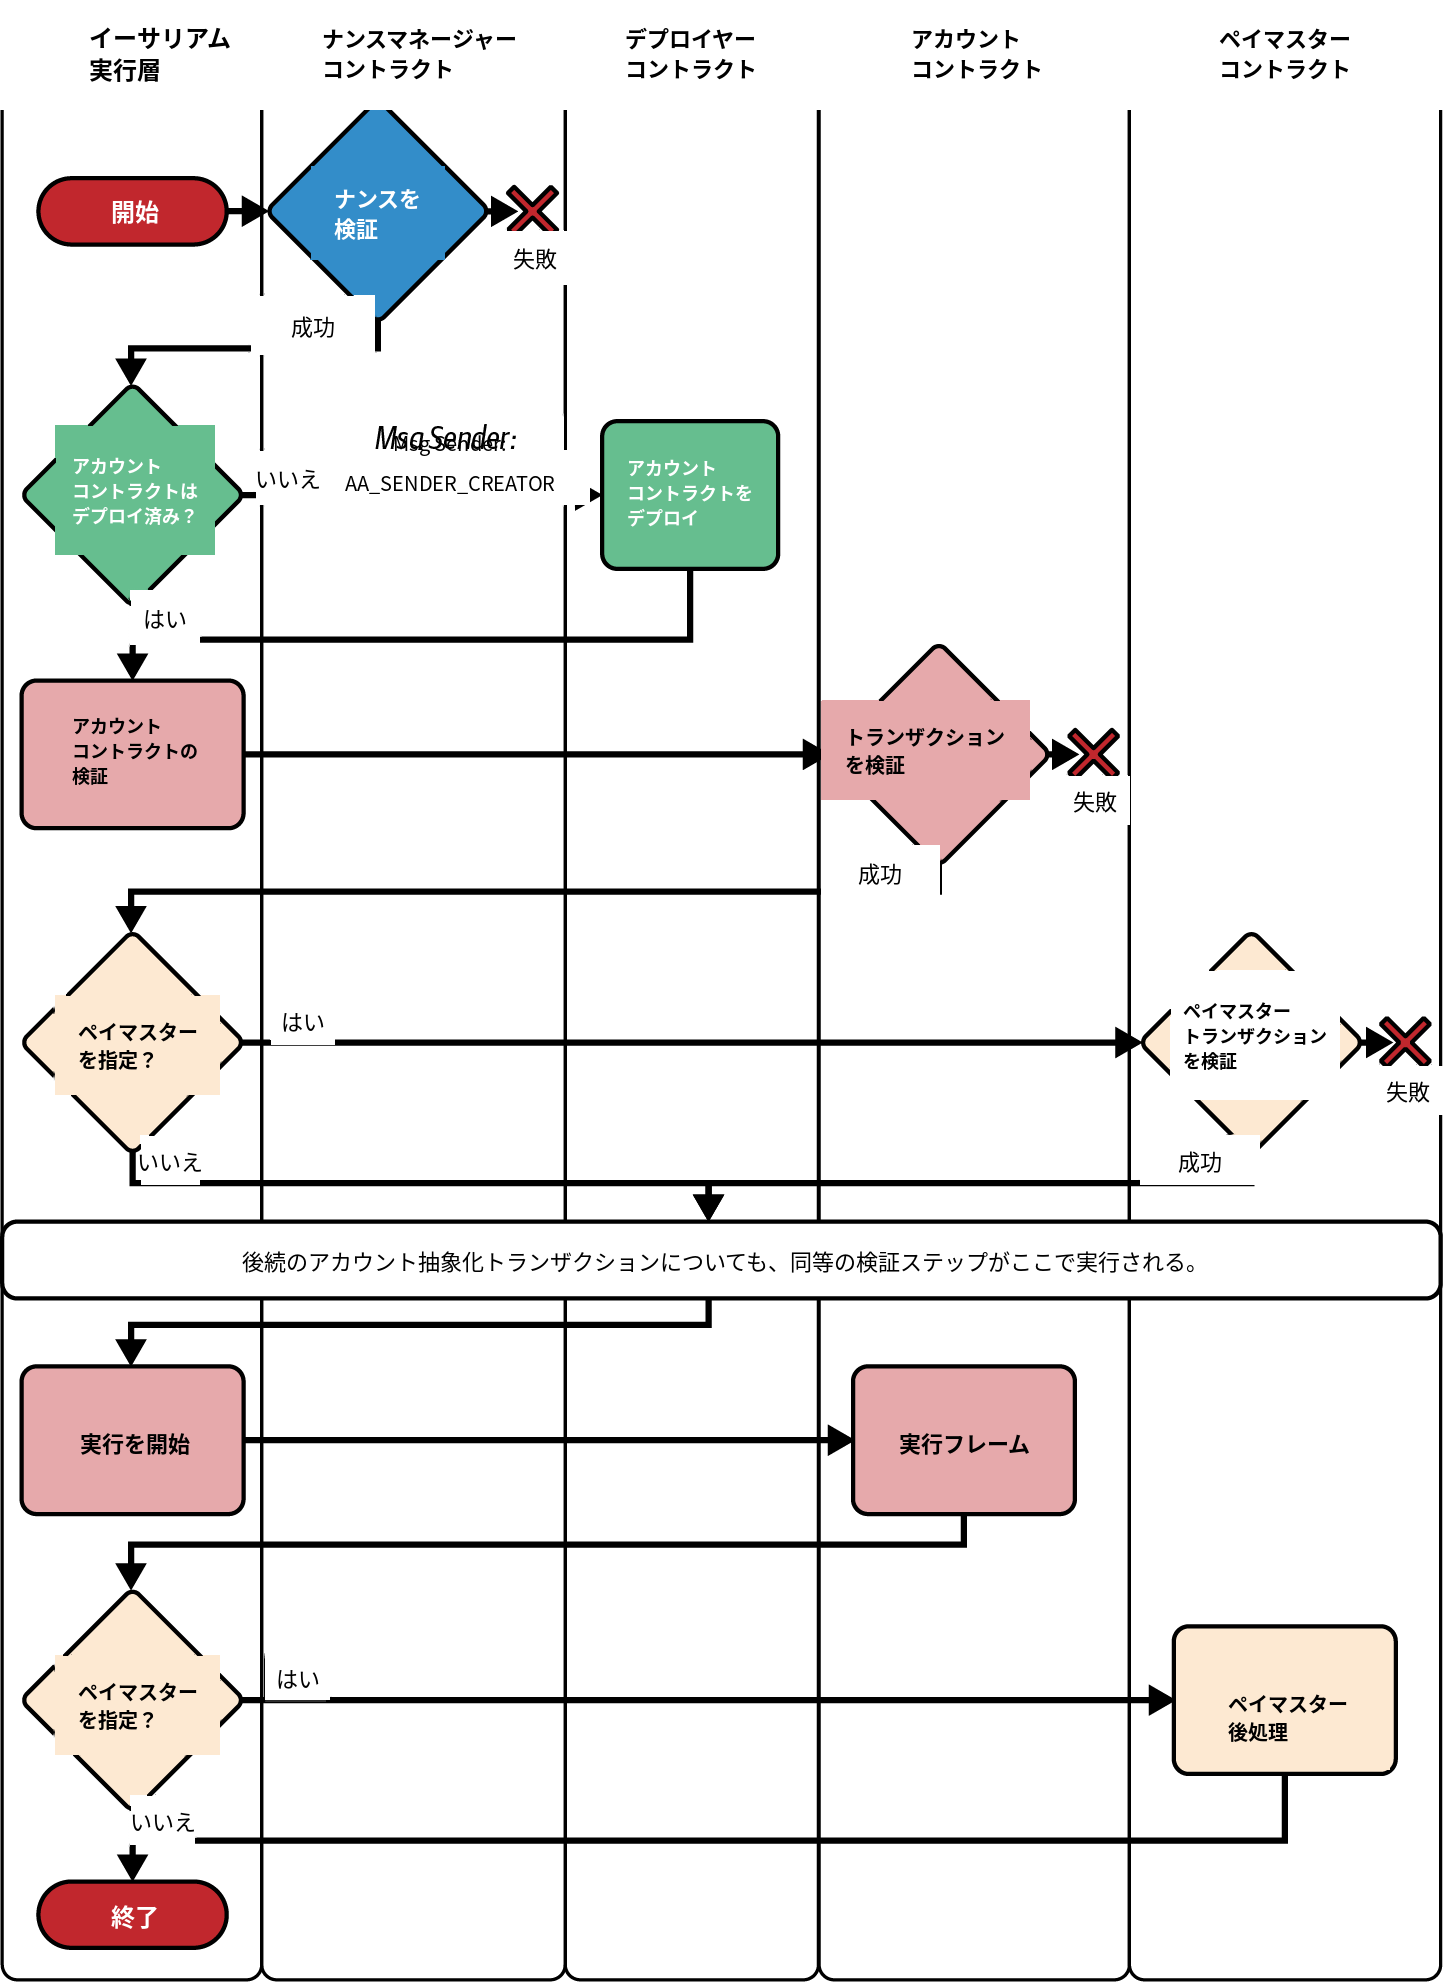
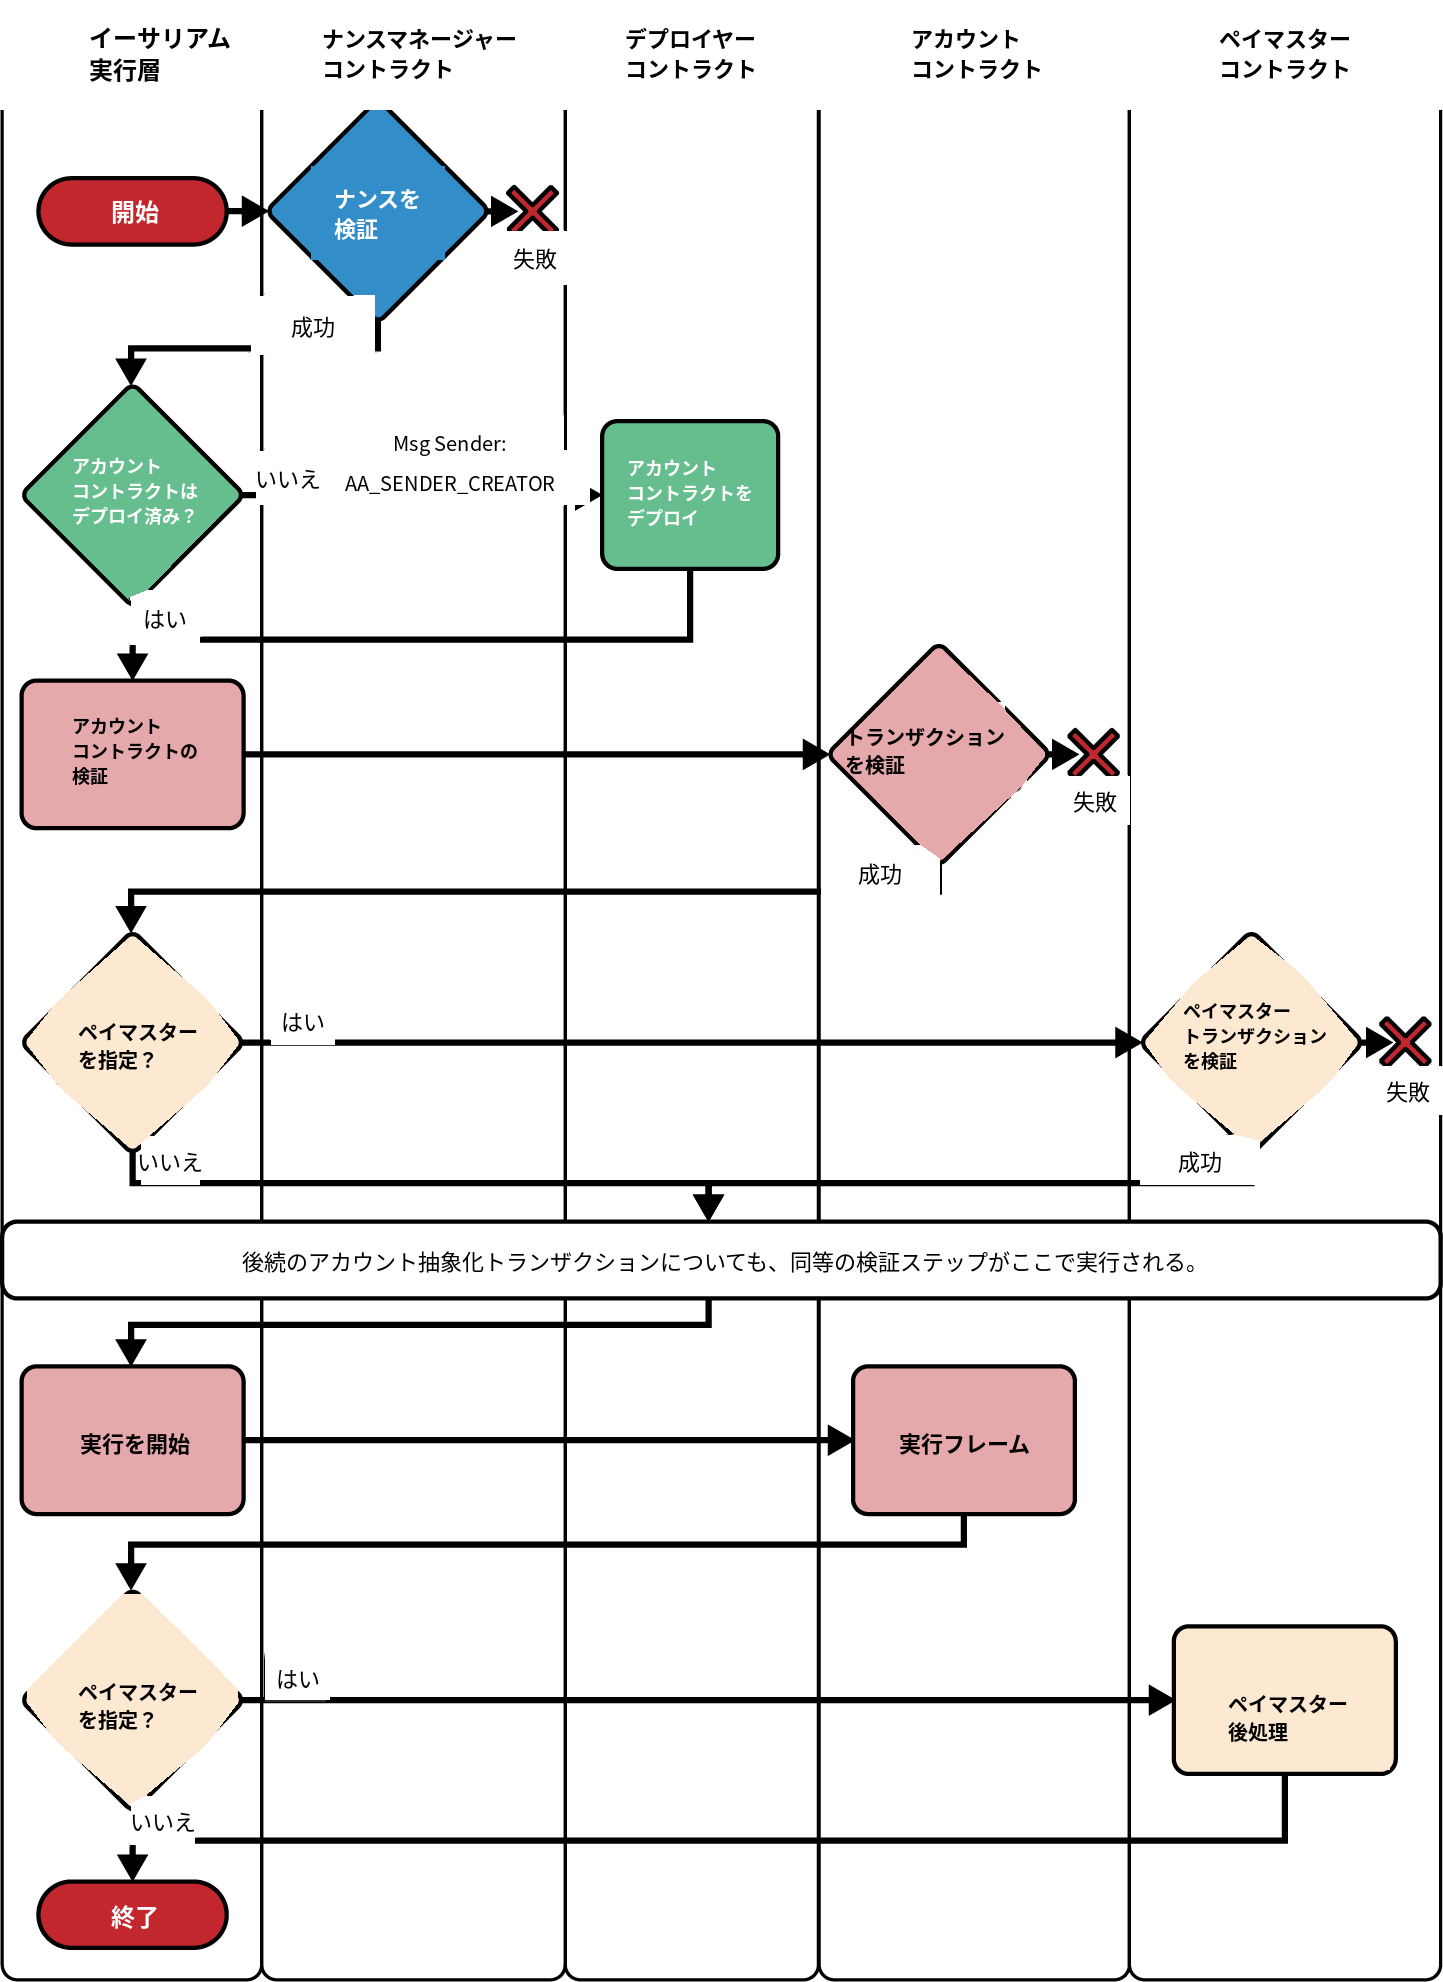
fix(ch5-images): repair broken diamond shapes in 0506
The hard __extra_mask_boxes__ approach (rectangular mask + flat median
fill) destroyed every colored diamond node: the rectangle paints fill
color (or sampled white) beyond the diamond's slanted edges, producing
star/banded/split shapes, and suppresses border restoration.

Add an additive __extra_fill_shapes__ feature to translate_image.py that
repaints a shape's interior using the convex hull of its fill-color
pixels, so it follows the real outline exactly, covers the preserved
English text holes, and leaves the original border untouched. Replace
the five damaging diamond mask boxes in maet_0506.json with fill-shape
entries, and mask the original italic 'Msg Sender:' that was rendering
doubled under the redrawn label.

The new key defaults to empty, so maps without it are byte-identical
(verified by regenerating maet_0502.png).

diff --git a/scripts/translate_image.py b/scripts/translate_image.py
@@ -182,6 +182,40 @@ def restore_borders(
     return result
 
 
+def _hex_to_bgr(hex_color: str) -> tuple:
+    h = hex_color.lstrip("#")
+    return (int(h[4:6], 16), int(h[2:4], 16), int(h[0:2], 16))
+
+
+def draw_fill_shapes(img: np.ndarray, shapes: list[dict]) -> np.ndarray:
+    """色付き図形（菱形・矩形）の内側を単色で塗り直し、preserve された原文テキストを
+    覆い隠す。元の枠線は塗り色領域の外側にあるためそのまま残る。
+
+    矩形マスク + 中央値塗り（__extra_mask_boxes__）は菱形の傾いた辺を破壊するため、
+    菱形ノード内のテキスト差し替えにはこちらを使う。塗る範囲は bbox 内で「指定した
+    塗り色に一致するピクセル」の凸包とし、図形の実形状に正確に追従させる（テキストの
+    抜き穴は凸包の内側に含まれるので確実に覆える）。
+
+    形式: {"diamond": [x1,y1,x2,y2], "fill": "#RRGGBB", "tol": 60}
+          {"rect":    [x1,y1,x2,y2], "fill": "#RRGGBB"}
+    """
+    out = img.copy()
+    for sh in shapes:
+        color = _hex_to_bgr(sh["fill"])
+        box = sh.get("diamond") or sh.get("rect")
+        x1, y1, x2, y2 = box
+        if "rect" in sh:
+            cv2.rectangle(out, (x1, y1), (x2, y2), color, -1)
+            continue
+        roi = out[y1:y2, x1:x2].astype(int)
+        diff = np.abs(roi - np.array(color, dtype=int)).sum(axis=2)
+        ys, xs = np.where(diff < sh.get("tol", 60))
+        if len(xs) >= 3:
+            pts = np.column_stack([xs + x1, ys + y1]).astype(np.int32)
+            cv2.fillConvexPoly(out, cv2.convexHull(pts), color)
+    return out
+
+
 def compute_size_groups(regions: list[dict]) -> dict:
     """同一 size_group の region は bbox 高さの中央値でフォントサイズを揃える。"""
     grouped = defaultdict(list)
@@ -262,6 +296,9 @@ def translate_image(image_path: str, translation_map: dict, preview: bool = Fals
     # 同じ英単語が場所ごとに異なるサイズ/色で描画されるケースを切り分けるために、
     # 片方の領域を __extra_text_regions__ で上書きする用途で使う。
     skip_match_boxes = translation_map.pop("__skip_match_boxes__", [])
+    # __extra_fill_shapes__: 菱形/矩形の内側を単色で塗り直して原文を覆う（枠線は保持）。
+    # 矩形マスクが傾いた辺を壊す菱形ノードのテキスト差し替えに使う。
+    extra_fill_shapes = translation_map.pop("__extra_fill_shapes__", [])
 
     regions = []
     preserve_boxes = []
@@ -398,6 +435,11 @@ def translate_image(image_path: str, translation_map: dict, preview: bool = Fals
 
     # 枠線・矢印の復元（inpainting で発生したボケを原本から上書き修復）
     inpainted = restore_borders(image_path, inpainted, detections, protect_boxes=extra_mask_boxes)
+
+    # 色付き図形の内側を塗り直して preserve された原文を覆う（菱形ノード対策）
+    if extra_fill_shapes:
+        inpainted = draw_fill_shapes(inpainted, extra_fill_shapes)
+        print(f"       + {len(extra_fill_shapes)} fill shape(s) redrawn")
 
     print("[4/4] Drawing Japanese text")
     result = draw_translations(inpainted, regions)
